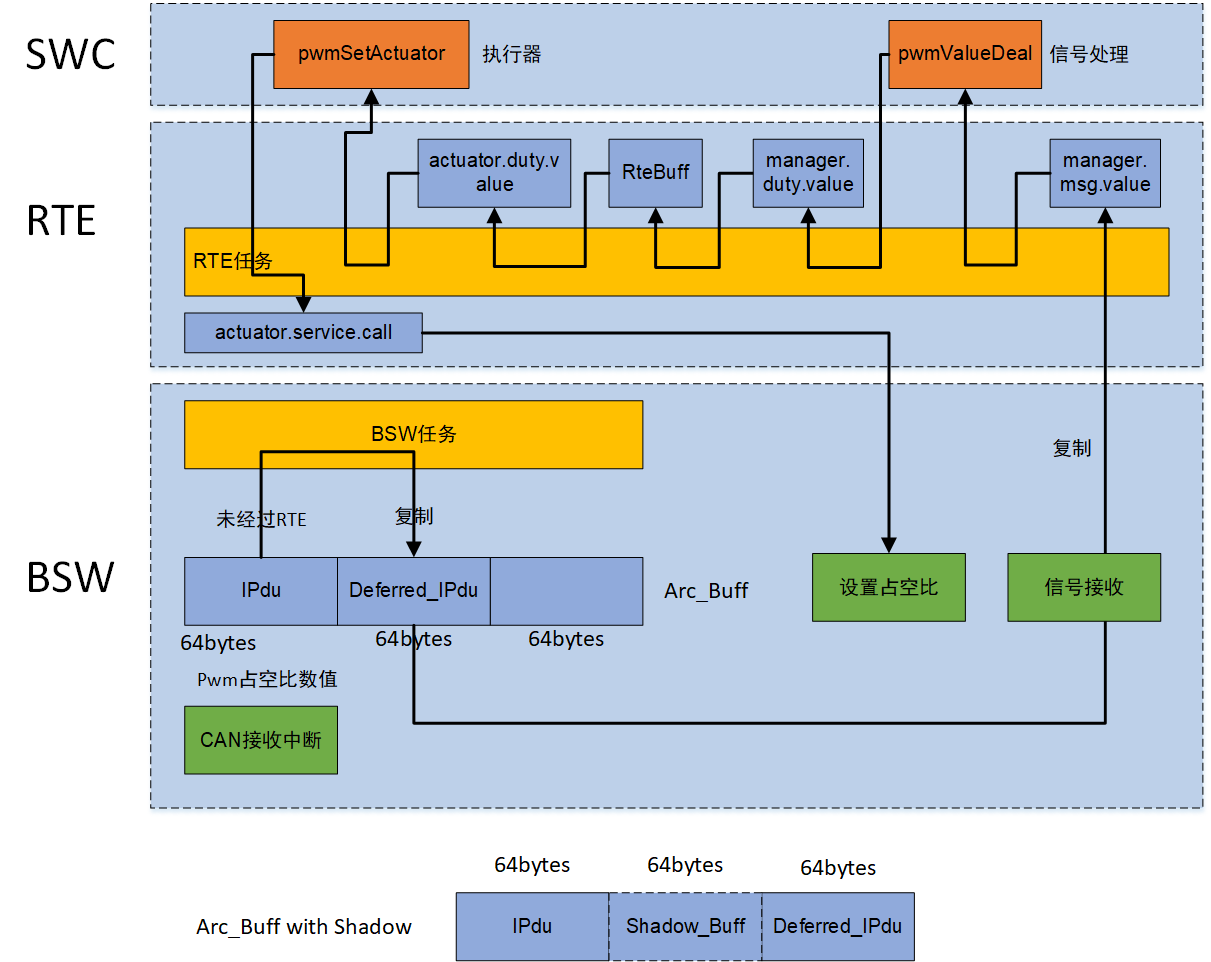
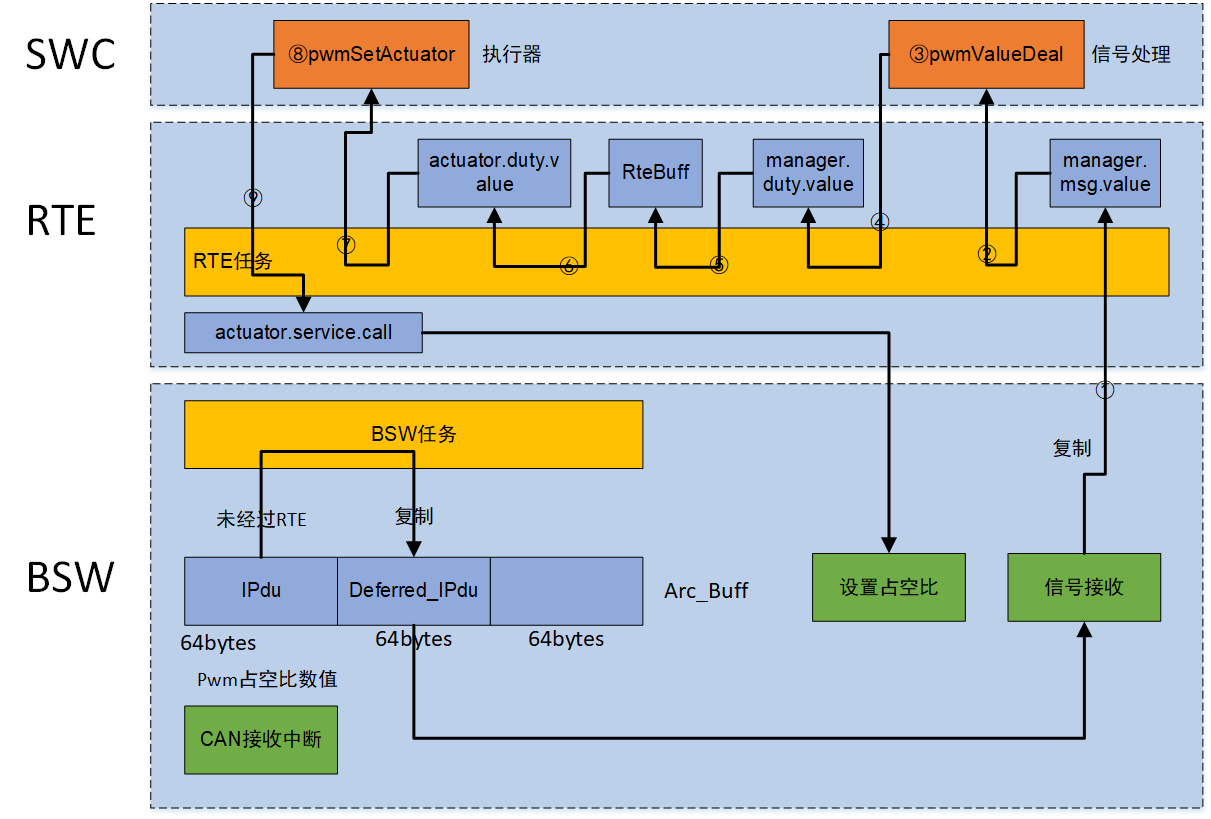
update rte processing and defined func

diff --git a/_wiki/AUTOSAR.md b/_wiki/AUTOSAR.md
@@ -718,7 +718,19 @@ Rte_SwcReader_SwcReaderRunnable --> swcReaderRunnable["swcReaderRunnable()"]
 
 ### 7.3.7 OsRteTask读取数据和设置灯PWM
 
+* 流程图
+
 <img src="/images/wiki/AUTOSAR/RTEandSWV.png" width = "800" alt = "RTE读取数据设置灯Pwm">
+
+* 变量声明和定义
+
+<img src="/images/wiki/AUTOSAR/variable.png" width = "800" alt = "RTE变量">
+
+* Runnable调用的函数和定义
+
+<img src="/images/wiki/AUTOSAR/managerRunnable.png" width = "800" alt = "获取数据和处理">
+
+<img src="/images/wiki/AUTOSAR/actuatorRunnable.png" width = "800" alt = "执行设置占空比">
 
 ## 7.4 顶层移植、配置和应用
 
